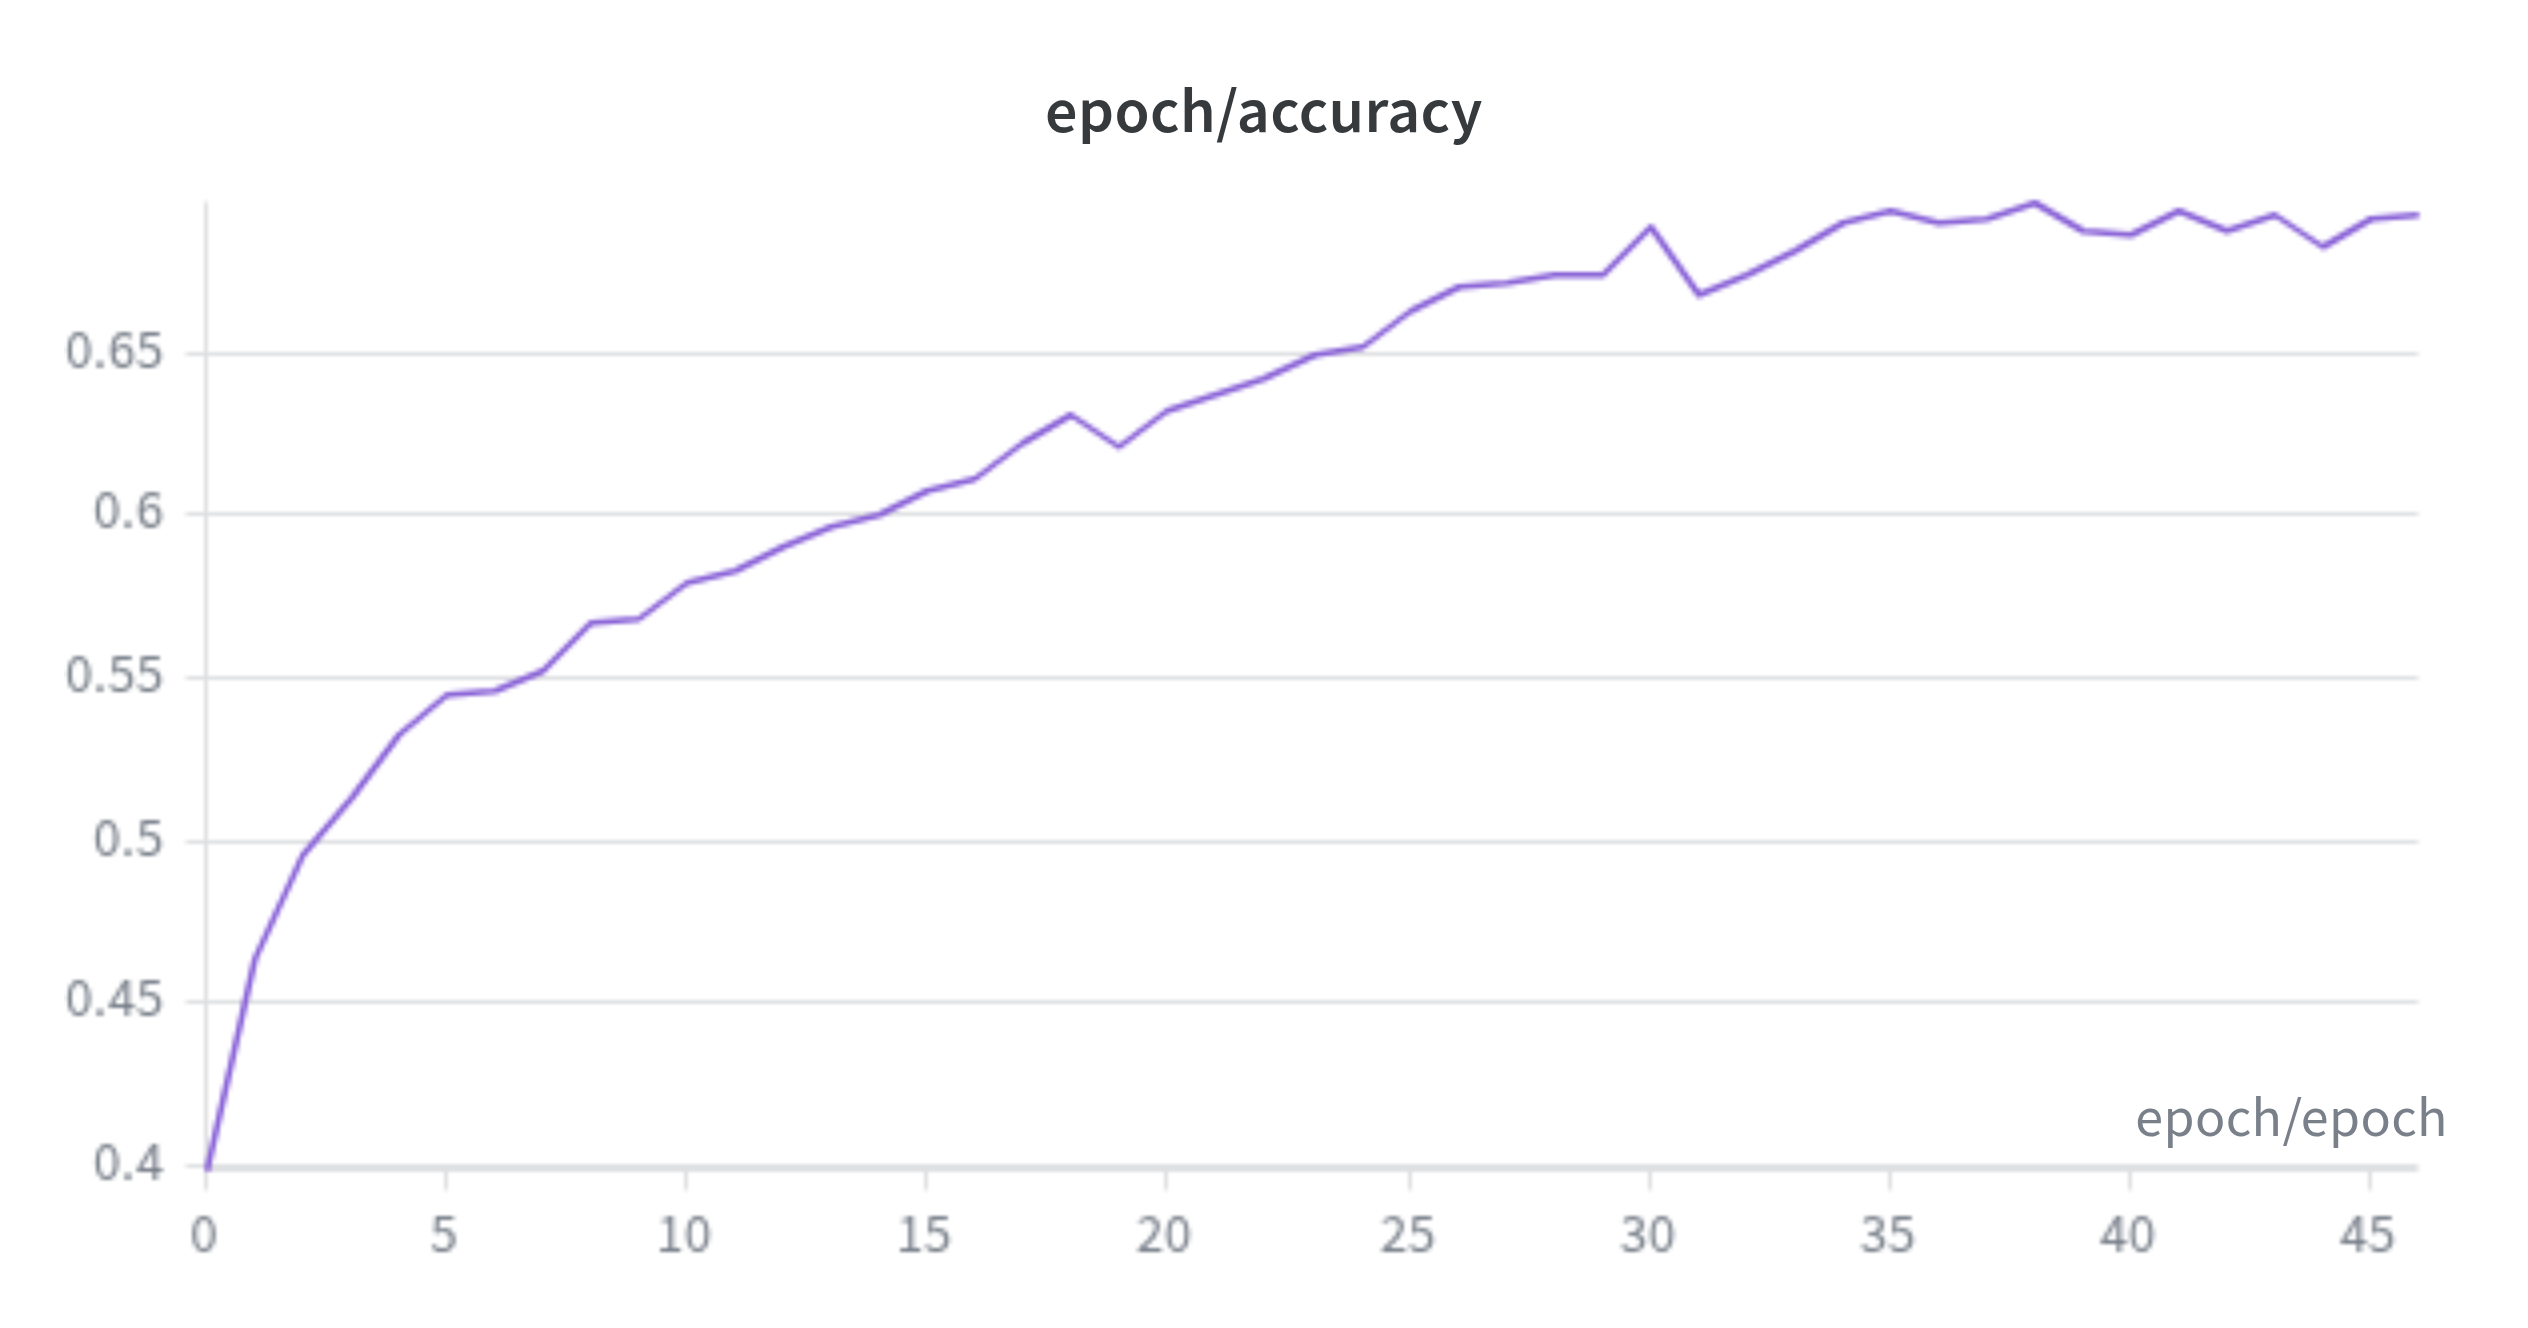
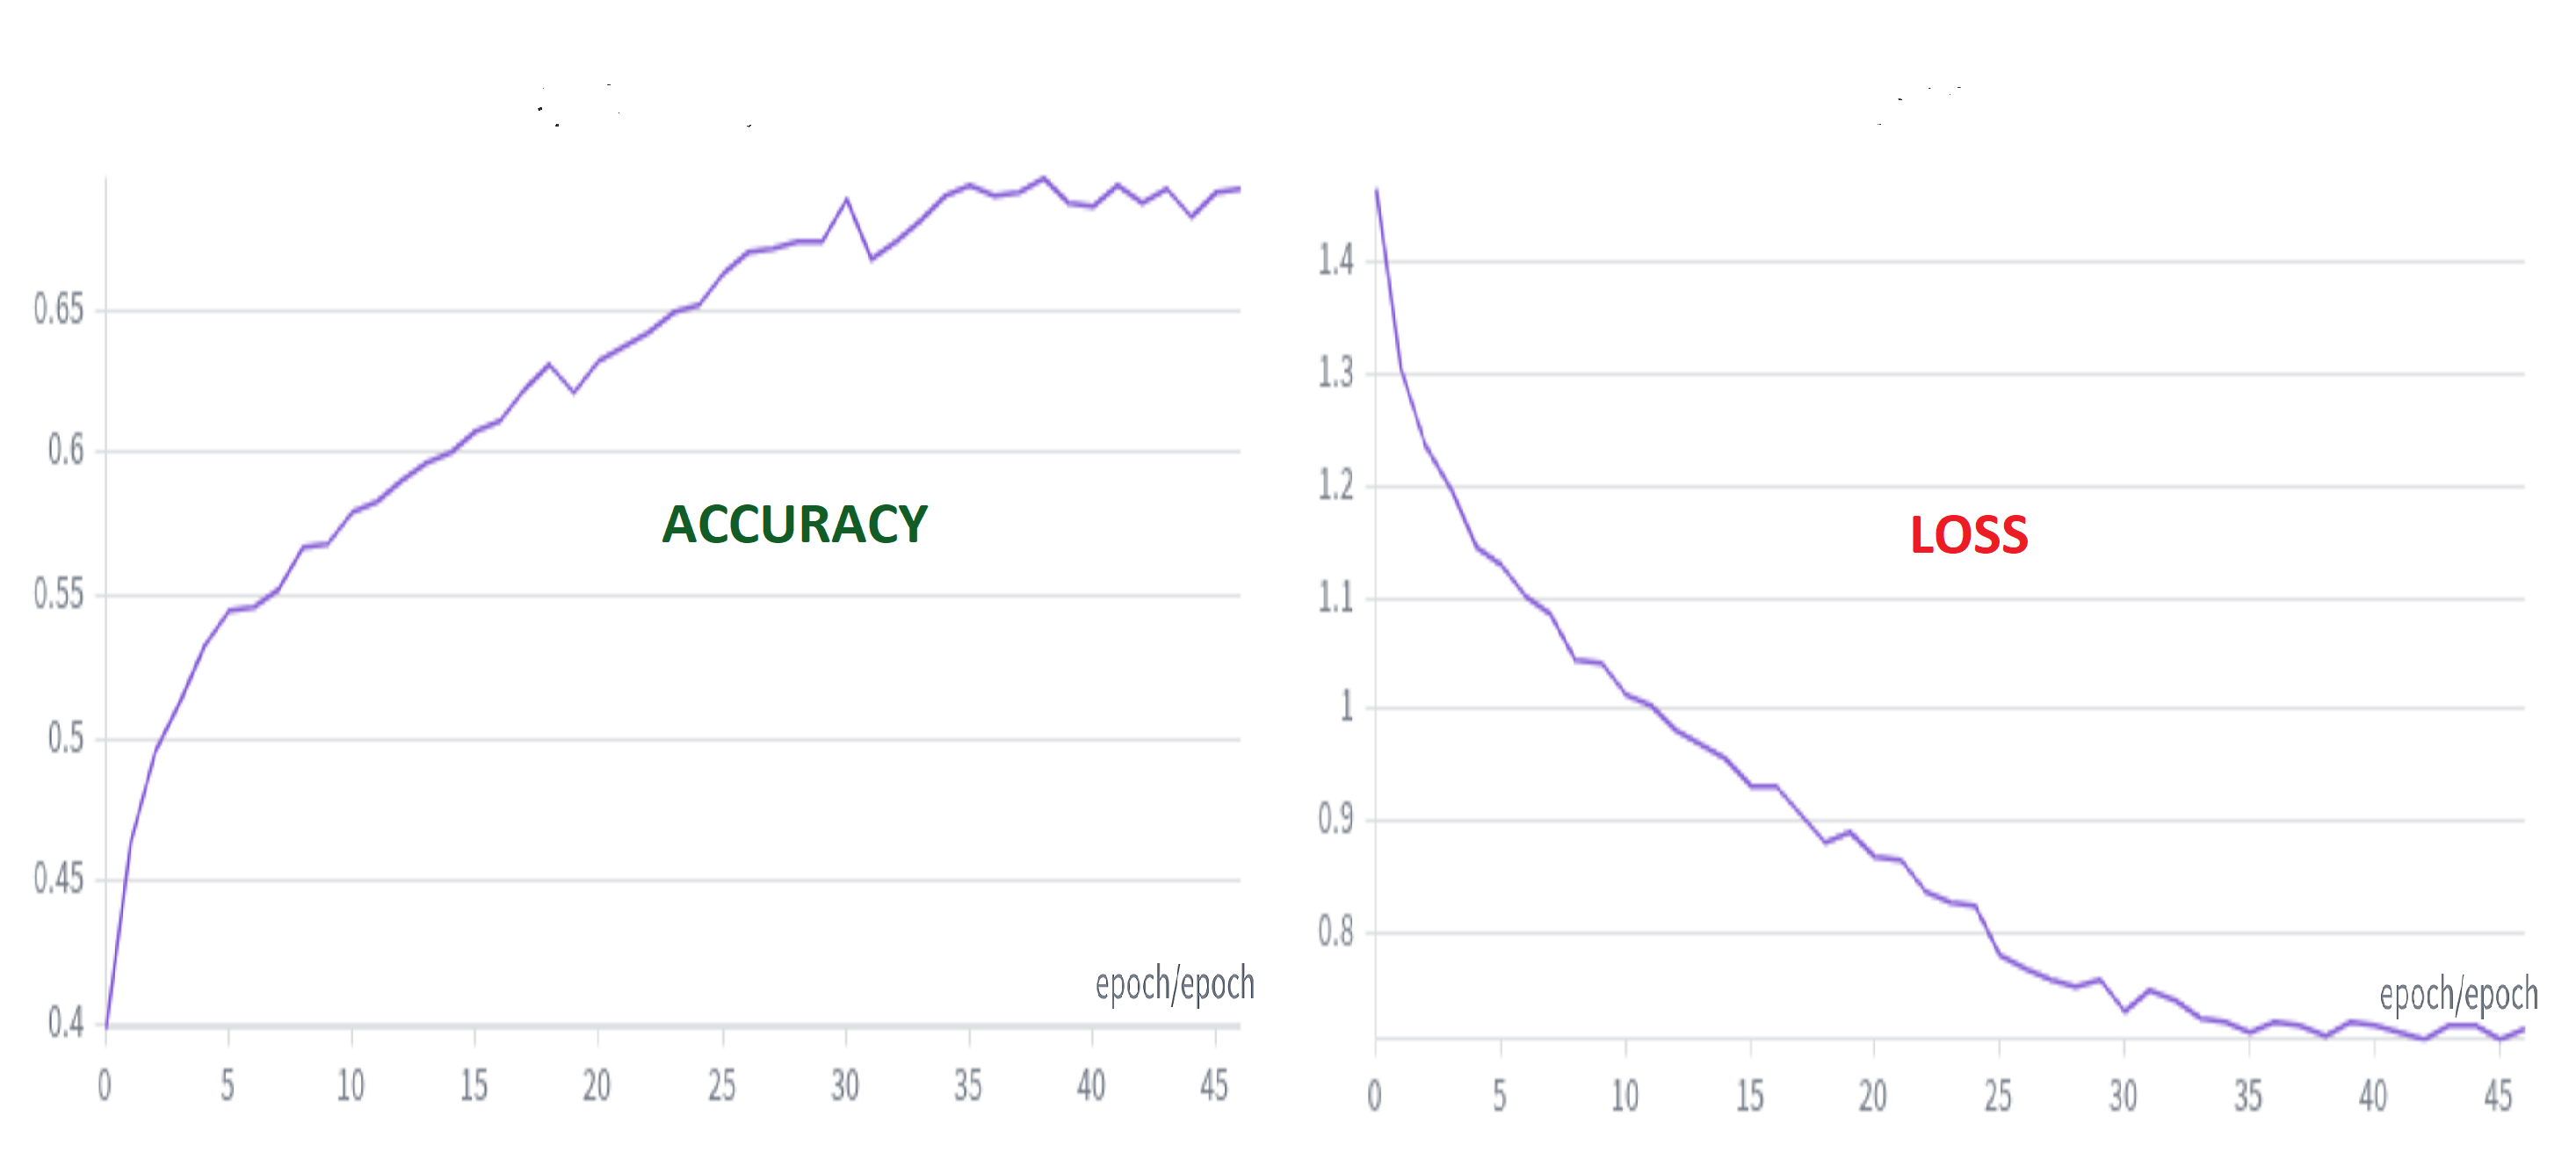
Update cloud service and epoch-accuracy schema

diff --git a/cutisia/lib/services/cloud_api_service.dart b/cutisia/lib/services/cloud_api_service.dart
@@ -7,7 +7,7 @@ class CloudApiService {
 
   // URL de base de votre serveur Ngrok (à mettre à jour par l'utilisateur)
   String baseUrl = "https://chalazian-nonfissile-dian.ngrok-free.dev";
-
+  // other URL String baseUrl = "https://franck504-cutisia-hf.hf.space";
   Future<Map<String, dynamic>?> predictImage(String imagePath) async {
     try {
       final url = Uri.parse("$baseUrl/predict");
@@ -37,7 +37,10 @@ class CloudApiService {
     }
   }
 
-  Future<bool> submitCollection(String imagePath, Map<String, dynamic> metadata) async {
+  Future<bool> submitCollection(
+    String imagePath,
+    Map<String, dynamic> metadata,
+  ) async {
     try {
       final url = Uri.parse("$baseUrl/collect");
       _logger.i("Sending collection data to Cloud API: $url");
@@ -49,7 +52,7 @@ class CloudApiService {
       var streamedResponse = await request.send().timeout(
         const Duration(seconds: 30),
       );
-      
+
       if (streamedResponse.statusCode == 200) {
         _logger.i("Collection data submitted successfully to Cloud");
         return true;